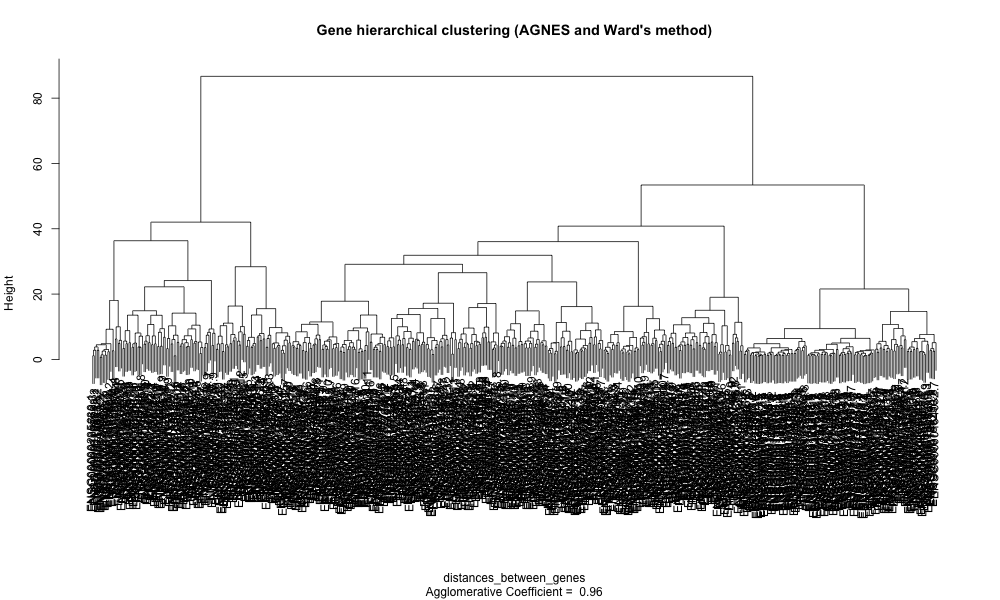
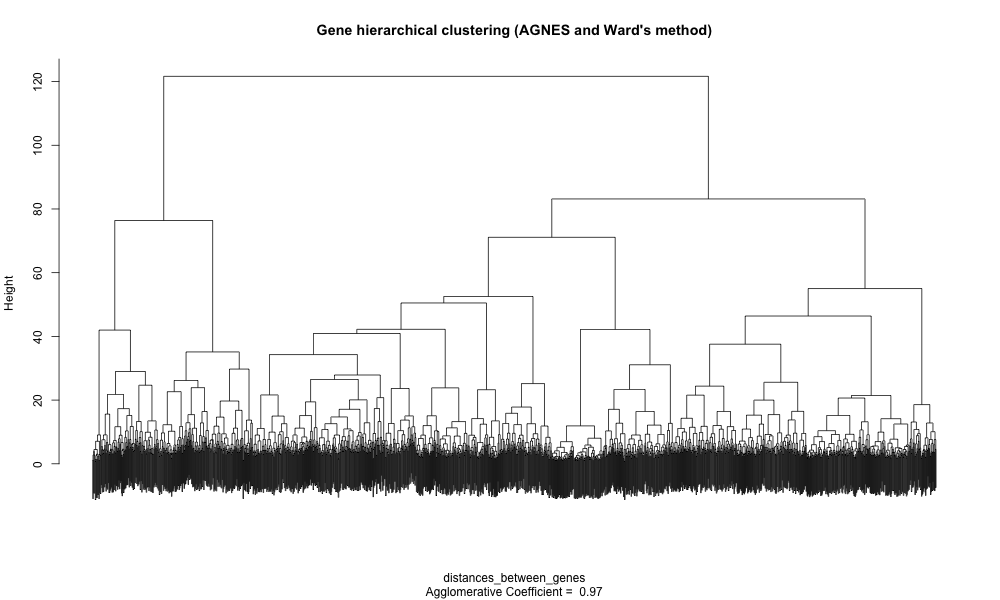
update clustering episode

diff --git a/_episodes/04-clustering-heatmaps.md b/_episodes/04-clustering-heatmaps.md
@@ -29,8 +29,9 @@ keypoints:
     - [2.3 Tissue hierarchical clustering](#23-tissue-hierarchical-clustering)
 - [3. Hierarchical clustering of the genes](#3-hierarchical-clustering-of-the-genes)
     - [3.1 Selecting a gene subset](#31-selecting-a-gene-subset)
-    - [3.2 Clustering](#32-clustering)
+    - [3.2 Gene clustering](#32-gene-clustering)
 - [4. Heatmaps](#4-heatmaps)
+- [Gene expression profile](#gene-expression-profile)
 - [5. Time to practice](#5-time-to-practice)
 - [References](#references)
 
@@ -254,7 +255,7 @@ genes_selected =
 ~~~
 {: .language-r} 
 
-## 3.2 Clustering
+## 3.2 Gene clustering
 
 Our gene expression set has already been converted to a matrix and scaled before (see section 2.1): the corresponding R object is called `mat_expr_scaled`.  
 Therefore, we will subset this matrix using our list of selected genes. 
@@ -273,7 +274,10 @@ distances_between_genes = dist(x = genes_mat, method = "euclidean")
 hcl_genes_ward <- cluster::agnes(x = distances_between_genes, method = "ward")
 
 # You can already create a dendrogram from this hierarchical cluster object (zoom to get additional details)
-plot(hcl_genes_ward,ask = FALSE, main = "Gene hierarchical clustering (AGNES, Ward method)")
+plot(hcl_genes_ward,
+     labels = FALSE,  # remove unreadable gene names
+     which.plots = 2,
+     main = "Gene hierarchical clustering (AGNES, Ward method)")
 ~~~
 {: .language-r}
 
@@ -305,6 +309,40 @@ This yields the following heatmap:
 {: .discussion}
 
 <br>
+
+# Gene expression profile
+
+~~~
+gene_to_cluster_group <- cutree(tree = hcl_genes_ward, k = 10) %>% 
+  enframe() %>% 
+  rename(gene = name, cluster = value) %>% 
+  mutate(gene_id = hcl_genes_ward$order.lab)
+
+
+mat_expr_scaled_with_clusters = 
+  mat_expr_scaled %>%
+  as.data.frame() %>% 
+  rownames_to_column("gene_id") %>% 
+  pivot_longer(cols = - gene_id, names_to = "tissue", values_to = "scaled_value") %>%  
+  inner_join(x = ., y = gene_to_cluster_group, by = "gene_id") 
+  
+
+ggplot(mat_expr_scaled_with_clusters, aes(x = tissue, y = scaled_value)) +
+  geom_line(aes(group = gene_id)) +
+  facet_wrap( ~ cluster) +
+  stat_summary(aes(group = 1), fun = "median", colour = "brown", geom = "line", size = 1.5) +
+  theme(axis.text.x = element_text(angle = 90, size = 1))
+~~~
+{: .language-r}
+
+<img src="../img/04-gene-expression-profiles.png" width="80%">
+
+> ## Exercise
+> 1. There is clearly an issue with the previous plot. Can you determine which one?
+> 2. Can you correct the code to plot the correct figure then?
+> > ## Solution
+> > 1. The gene expression profiles per cluster are not very different from each other while they should.  
+{: .challenge}
 
 # 5. Time to practice
 <br>
